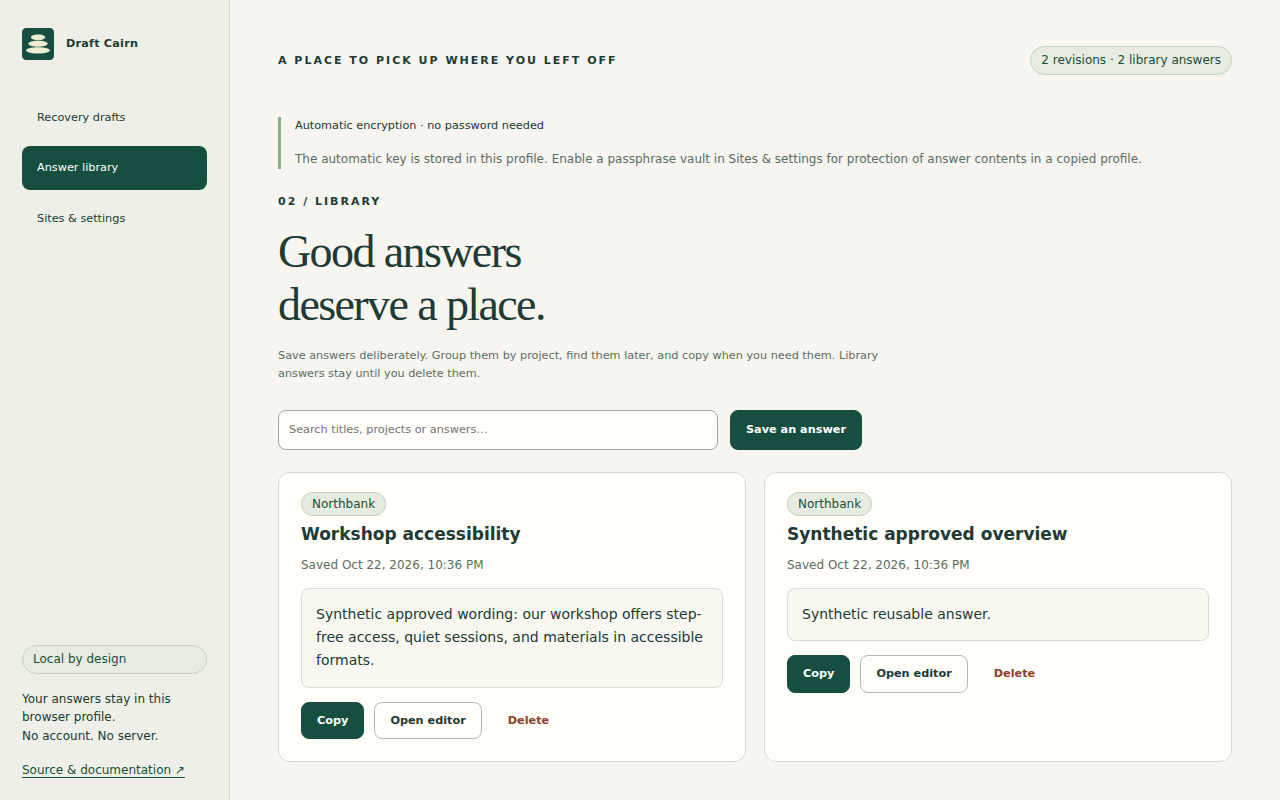
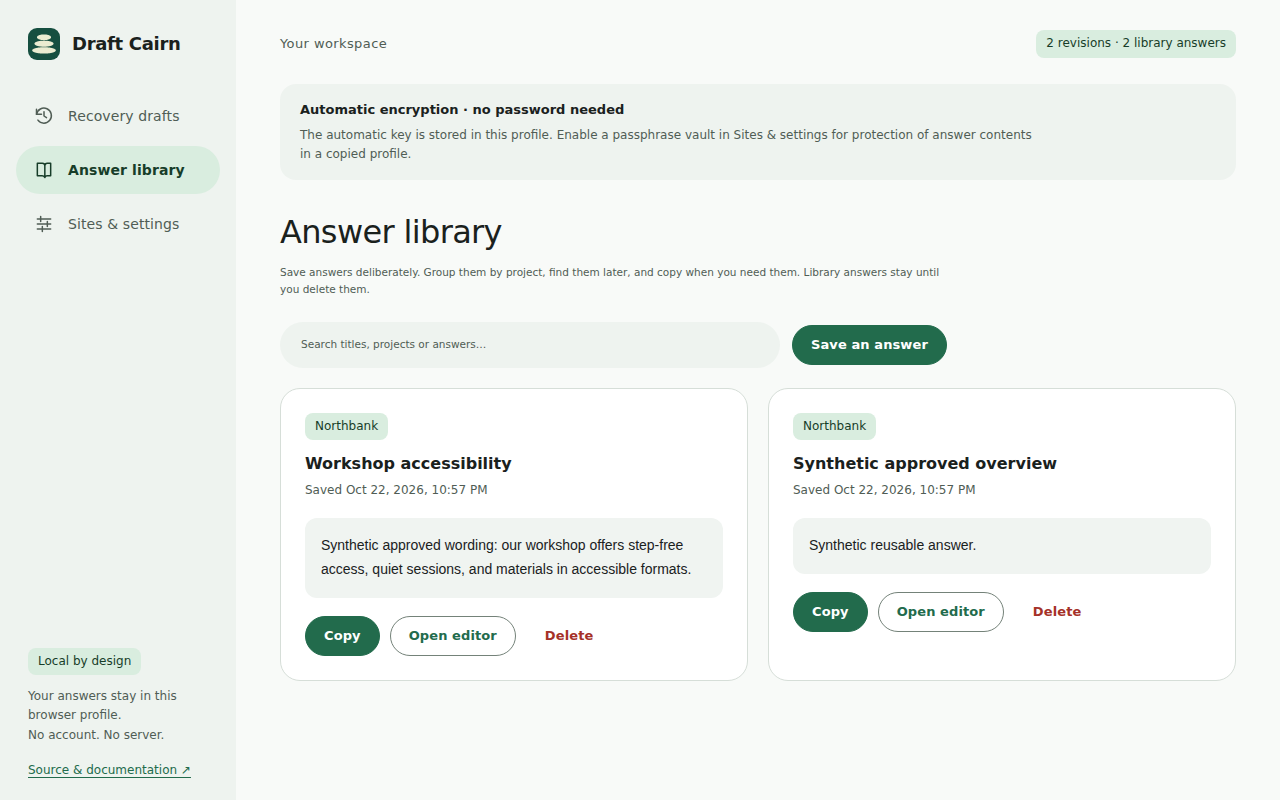
Prepare v0.2.1 with verified light/dark screenshots and appearance validation

diff --git a/scripts/package.py b/scripts/package.py
@@ -26,6 +26,8 @@ kit_files={
     'listing/promo-440x280.png':(root/'docs/store/small-promo.png').read_bytes(),
     'listing/screenshot-recovery-1280x800.png':(root/'docs/images/recovery.png').read_bytes(),
     'listing/screenshot-library-1280x800.png':(root/'docs/images/library.png').read_bytes(),
+    'listing/screenshot-recovery-dark-1280x800.png':(root/'docs/images/recovery-dark.png').read_bytes(),
+    'listing/screenshot-library-dark-1280x800.png':(root/'docs/images/library-dark.png').read_bytes(),
     'listing/reviewer-instructions.txt':(root/'docs/store/reviewer-instructions.txt').read_bytes(),
     'listing/privacy-policy.md':(root/'PRIVACY.md').read_bytes(),
     'SUBMISSION.md':(root/'docs/chrome-web-store.md').read_bytes(),

diff --git a/scripts/check-assets.py b/scripts/check-assets.py
@@ -10,7 +10,8 @@ for name,expected in {
     'extension/icons/16.png':(16,16),'extension/icons/32.png':(32,32),
     'extension/icons/48.png':(48,48),'extension/icons/128.png':(128,128),
     'docs/store/icon-512.png':(512,512),'docs/store/small-promo.png':(440,280),
-    'docs/images/recovery.png':(1280,800),'docs/images/library.png':(1280,800)
+    'docs/images/recovery.png':(1280,800),'docs/images/library.png':(1280,800),
+    'docs/images/recovery-dark.png':(1280,800),'docs/images/library-dark.png':(1280,800)
 }.items():
     assert dimensions(root/name)==expected, f'Incorrect dimensions: {name}'
 b=(root/'extension/icons/128.png').read_bytes()

diff --git a/docs/release-notes.md b/docs/release-notes.md
@@ -1,21 +1,16 @@
-Draft Cairn 0.2.0 preview — optional passphrase vault and privacy controls.
+Draft Cairn 0.2.1 preview — a simpler interface with light and dark themes.
 
-Automatic encryption remains the password-free default. Users can opt into a passphrase vault: new drafts continue saving while locked, and reading, search, restoration and library changes require unlocking. A forgotten passphrase cannot be reset. Changing the passphrase or returning to automatic encryption preserves existing answers through atomic rekeying.
+The workspace, toolbar popup and larger on-page editor now share a minimal Material-inspired design: clean sans-serif typography, rounded controls, quieter surfaces, and a restrained green accent.
 
-- The vault uses per-record AES-256-GCM with RSA-OAEP-3072 key wrapping. PBKDF2-SHA-256 protects the private key. Unlock survives worker suspension and clears on explicit lock or browser/extension session end.
-- The operational index uses a separate automatic key in the profile. The vault protects answer contents in copied files; it does not hide operational metadata from a profile holder or protect an actively compromised browser/device. See PRIVACY.md.
-- Fresh installations default to one-day recovery without page titles/field details. Existing choices are preserved. Minimal-metadata drafts are copy-only; enabling page details permits conservative direct restoration.
-- Optional session-only recovery keeps encrypted drafts in browser-session memory, with a smaller 2 MiB recovery budget. The persistent library remains. Chrome must fully exit to end its session; closing the last window can leave background Chrome running.
-- Block sites from the popup or exclude fields in the larger on-page editor. Manage exclusions in settings. Field exclusion deletes its recovery revisions; blocking a site keeps earlier drafts unless deleted.
-- Export a passphrase-encrypted library backup or explicitly choose readable JSON. Backup passwords are separate from the vault. Clipboard managers/history and exported copies remain outside lock and wipe controls.
-- Delete all is also available in the popup, including while locked. Persistent record/index/key updates are atomic. Migration supports old plaintext and v0.1.2 encrypted stores without duplicating a full dataset inside Chrome storage.local's quota.
+- Appearance follows the system by default. Choose System, Light or Dark in Sites & settings. The preference is stored with encrypted local settings, applies across extension pages and supported-site editors, and remains available while the vault is locked.
+- Dark mode covers fields, dialogs, status messages, menus and answer cards. The layout adapts to smaller windows. Reduced-motion and forced-color preferences are supported.
+- Fonts and icons stay local. There are no new permissions, runtime dependencies, remote fonts or outbound connections.
+- Encrypted library export now closes the passphrase form before starting the download, so immediately importing the file cannot be disrupted by the earlier dialog's close event.
 
-Validation: 15 unit groups, 48 real Chromium integration scenarios, static/manifest/assets checks and reproducible packaging passed. Tests cover locked capture, real worker/browser restart, UI scrubbing, wrong passwords, exports, exclusions, legacy upgrades and failed near-capacity migration rollback. See docs/validation.md and validation-results-0.2.0.json for evidence and limits. There has been no independent cryptographic/security audit.
+Automatic answer encryption, the optional passphrase vault, locked capture, session-only drafts, site/field exclusions and library backups remain available. Forgotten vault or backup passphrases cannot be recovered. Clipboard history, readable exports, websites and a compromised live device remain outside vault protection.
 
-Native Chrome permission approval/denial/revocation, daily-use OS clipboard behavior and two or three intended portals still need supervised synthetic-data checks before store submission. Automated integration pre-grants localhost in a temporary test copy. The shipping manifest keeps all hosts optional.
+Validation includes 15 unit groups, 53 real Chromium integration scenarios, text/control contrast checks for both palettes, static/manifest/asset checks and reproducible packaging. See docs/validation.md and validation-results-0.2.1.json for the exact tested commit and scenario count. There has been no independent security audit.
 
-Extract the extension ZIP, verify SHA256SUMS, and load its manifest folder using chrome://extensions → Developer mode → Load unpacked. The separate store kit contains the install ZIP, icon, images, listing copy and reviewer steps. Upload only the inner extension ZIP as the package.
+Native Chrome permission approval/denial/revocation, daily-use OS clipboard behavior and intended application portals still require supervised synthetic-data checks before Web Store submission. No store submission, payment or paid service has been activated.
 
-Limits: standard top-level textareas and long ordinary text inputs; no rich text, frames or incognito. Unsupported fields visibly warn. Latest unsaved keystrokes may be lost. Direct restoration is empty-field-only, unique-match-only, and unavailable for query/fragment pages or drafts without field details. Keep a separate copy of important work.
-
-This release has not been submitted to the Chrome Web Store. No paid service, registration or fee has been activated.
+Extract the extension ZIP, verify SHA256SUMS, and load its manifest folder using Chrome Developer mode / Load unpacked. For store preparation, extract the separate kit and upload only its inner extension ZIP as the package.

diff --git a/docs/validation.md b/docs/validation.md
@@ -2,6 +2,14 @@
 
 22 October 2026 · synthetic fixtures only
 
+## 0.2.1 appearance coverage
+
+**15 unit groups and 53 Chromium scenarios passed** on runtime commit `dda8e04d36826eaf145bc65c88ead79a8435458b`. [Passing run](https://github.com/librerob/draft-cairn/actions/runs/39868559743) · [machine-readable results](validation-results-0.2.1.json). Static, manifest, asset, palette contrast and reproducible package checks passed in the same run.
+
+New checks exercise live system light/dark changes, persistent explicit overrides after reload, synchronization with the toolbar popup, dark dialogs, the on-page editor's appearance independently of the website, forced colors, reduced motion, and changes while the vault is locked. The existing 390px layout and full recovery/vault regression coverage remain. The encrypted export/import check covers an immediate import after download, including the dialog-close timing fix.
+
+Both palettes pass 26 active text color pairs at 4.5:1 or greater, and six form-control boundary pairs at 3:1 or greater (`scripts/check-colors.py`). These numeric checks and automated media emulation are not a complete accessibility audit; native screen-reader, zoom and Windows High Contrast inspection remain manual. The actual UI screenshots use synthetic fixtures, local fonts, and disabled screenshot transitions for stable selected-navigation states.
+
 ## 0.2.0 vault/privacy coverage
 
 **15 Node test groups and 48 Chromium scenarios passed** on runtime commit `383687cf7ab5d49e28fd438331032b8dfd9f83f7`. [Passing runtime run](https://github.com/librerob/draft-cairn/actions/runs/39849421888) · [machine-readable scenarios](validation-results-0.2.0.json). Browser: Chromium 151.0.7922.34 on Ubuntu 24.04. Static, manifest, assets and deterministic packaging checks passed in the same run.

diff --git a/docs/store/README.md b/docs/store/README.md
@@ -11,7 +11,7 @@ The original mark is a small cairn: three cream stones on deep green. It suggest
 | `small-promo.svg` | Editable promotional composition. System font rendering can vary by editor. |
 | `small-promo.png` | Required small promotional image, 440×280. |
 | `readme-header.svg` | Editable GitHub README banner, 960×250. |
-| `../images/recovery.png`, `../images/library.png` | Real extension screenshots with synthetic fixture answers, 1280×800. These images show the recovery and library interface with synthetic data; validation records identify the exact browser run. Native Chrome permission checks remain separate. |
+| `../images/recovery.png`, `../images/library.png`, `../images/recovery-dark.png`, `../images/library-dark.png` | Real extension screenshots with synthetic fixture answers, 1280×800. Light and dark images show the recovery and library interface with synthetic data; validation records identify the exact browser run. Native Chrome permission checks remain separate. |
 | `listing/listing.txt` (inside the kit) | Name, short description, and detailed description, generated from the canonical listing document. |
 | `reviewer-instructions.txt` | Synthetic reviewer test steps, with no credentials required. |
 | `manual-smoke-test.md` | Unmodified-package permission and clipboard checks still required before submission. |

diff --git a/README.md b/README.md
@@ -22,7 +22,9 @@ Two other everyday uses:
 
 This is an early preview. Commercial demand and broad compatibility have not been established. Keep a separate copy of important work.
 
-![The answer library with synthetic project answers](docs/images/library.png)
+| Light | Dark |
+| --- | --- |
+| ![Light answer library with synthetic project answers](docs/images/library.png) | ![Dark answer library with synthetic project answers](docs/images/library-dark.png) |
 
 ## Install
 

diff --git a/PRIVACY.md b/PRIVACY.md
@@ -1,6 +1,6 @@
 # Privacy policy
 
-Effective 22 October 2026 · Draft Cairn 0.2.1 preview
+Effective 23 October 2026 · Draft Cairn 0.2.1 preview
 
 Draft Cairn keeps supported field text only on websites you explicitly enable. It also keeps complete oversized pastes temporarily, and library answers you deliberately save or import. No account is required. Nothing is sent to the developer.
 
